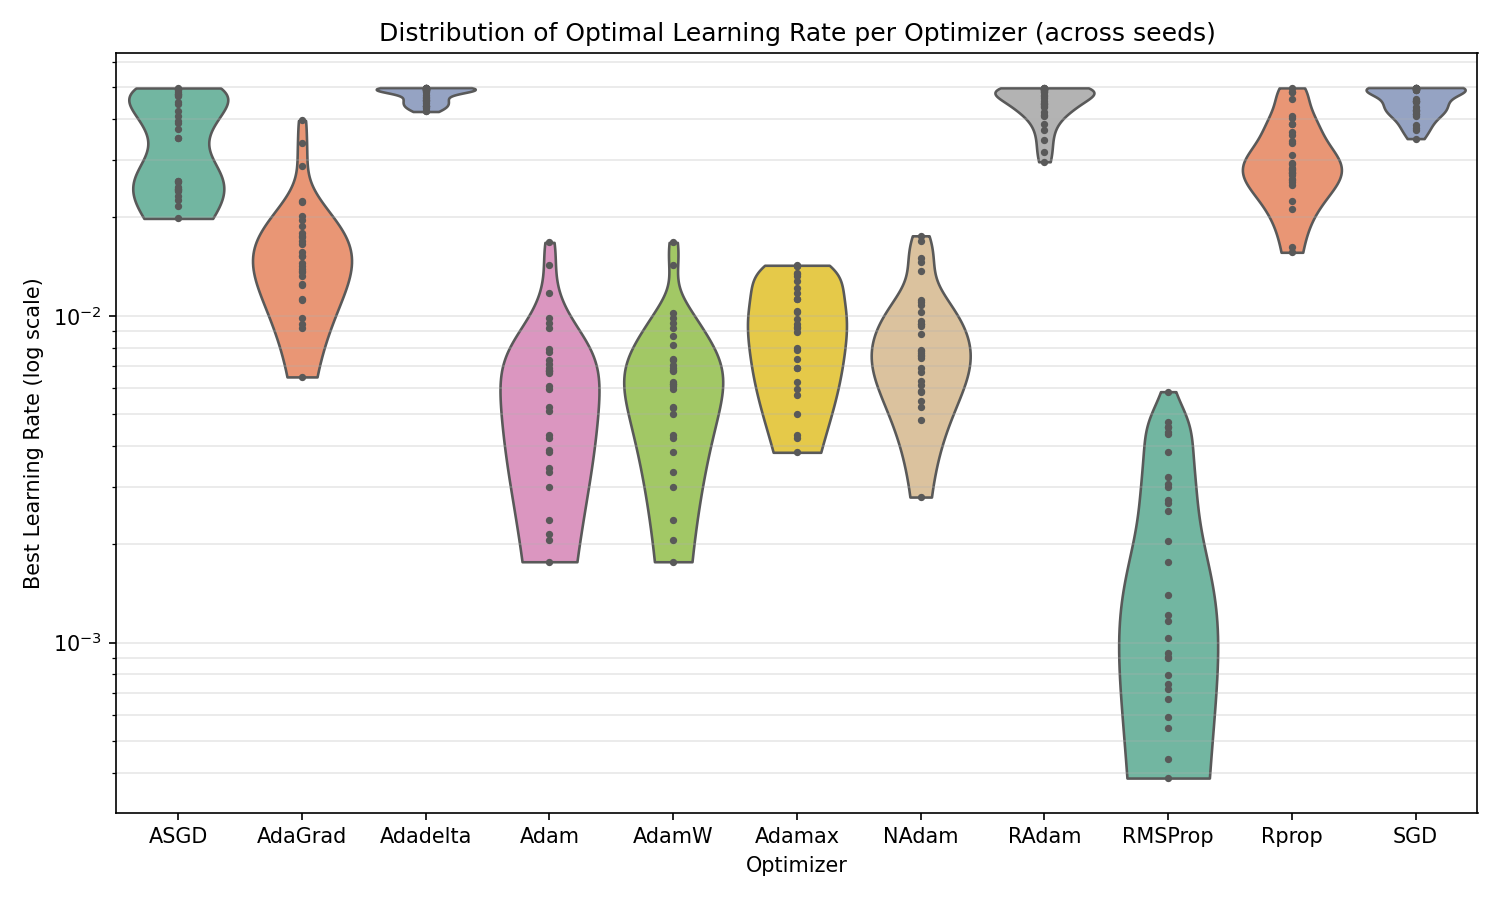
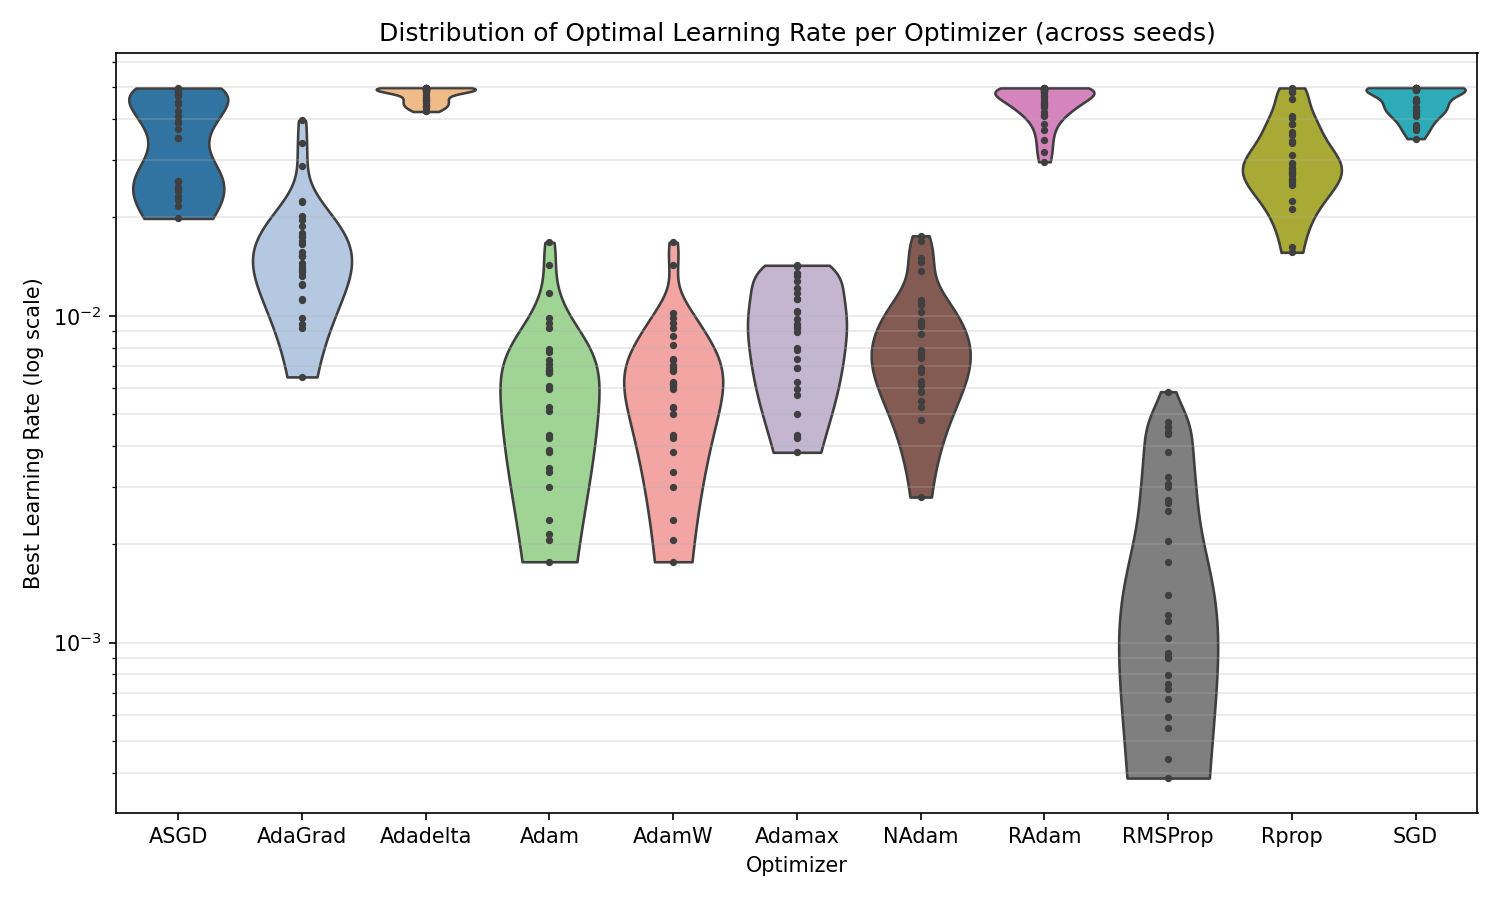
new and improved images+plot funcs

diff --git a/analysis.py b/analysis.py
@@ -293,11 +293,20 @@ def compute_kendalls_w(acc_matrix):
 #              VISUALISATIONS
 # ============================================================
 
+def get_optimizer_color_map(optimizers):
+    """Return a consistent optimizer -> color mapping."""
+    unique_opts = sorted(pd.unique(list(optimizers)))
+    cmap = plt.colormaps.get_cmap("tab20")
+    colors = [cmap(i / max(len(unique_opts), 1)) for i in range(len(unique_opts))]
+    return {opt: color for opt, color in zip(unique_opts, colors)}
+
 def plot_accuracy_boxplot(acc_matrix, save_path="results/accuracy_boxplot.png"):
     """Box plot of best accuracy per optimizer across seeds."""
     fig, ax = plt.subplots(figsize=(10, 6))
     melted = acc_matrix.reset_index().melt(id_vars="seed", var_name="Optimizer", value_name="Best Accuracy")
-    sns.boxplot(data=melted, x="Optimizer", y="Best Accuracy", ax=ax, palette="Set2")
+    order = list(acc_matrix.columns)
+    color_map = get_optimizer_color_map(order)
+    sns.boxplot(data=melted, x="Optimizer", y="Best Accuracy", ax=ax, order=order, palette=color_map)
     sns.stripplot(data=melted, x="Optimizer", y="Best Accuracy", ax=ax, color="black", size=4, alpha=0.6)
     ax.set_title("Best Accuracy per Optimizer (across seeds)")
     ax.set_ylabel("Best Cross-Validated Accuracy")
@@ -311,7 +320,9 @@ def plot_mean_rank_bar(acc_matrix, save_path="results/mean_rank.png"):
     """Bar chart of mean ranks (Friedman-style)."""
     mean_ranks = compute_mean_ranks(acc_matrix)
     fig, ax = plt.subplots(figsize=(8, 5))
-    mean_ranks.plot.barh(ax=ax, color="steelblue")
+    color_map = get_optimizer_color_map(mean_ranks.index)
+    bar_colors = [color_map[opt] for opt in mean_ranks.index]
+    mean_ranks.plot.barh(ax=ax, color=bar_colors)
     ax.set_xlabel("Mean Rank (lower = better)")
     ax.set_title("Mean Rank of Optimizers (Friedman)")
     ax.invert_yaxis()
@@ -324,12 +335,14 @@ def plot_mean_rank_bar(acc_matrix, save_path="results/mean_rank.png"):
 def plot_bo_convergence(trials_df, save_path="results/bo_convergence.png"):
     """Plot best-accuracy-so-far over BO iterations, averaged across seeds."""
     fig, ax = plt.subplots(figsize=(10, 6))
+    color_map = get_optimizer_color_map(trials_df["optimizer"].unique())
 
-    for opt in trials_df["optimizer"].unique():
+    for opt in sorted(trials_df["optimizer"].unique()):
         opt_df = trials_df[trials_df["optimizer"] == opt]
         # Average best_accuracy_so_far across seeds per iteration
         convergence = opt_df.groupby("iteration")["best_accuracy_so_far"].mean()
-        ax.plot(convergence.index, convergence.values, marker="o", markersize=3, label=opt)
+        ax.plot(convergence.index, convergence.values, marker="o", markersize=3,
+                label=opt, color=color_map[opt])
 
     ax.axvline(x=INITIAL_POINTS - 0.5, color="gray", linestyle="--", alpha=0.5, label="BO starts")
     ax.set_xlabel("Trial Iteration")
@@ -348,11 +361,11 @@ def plot_lr_vs_accuracy(trials_df, save_path="results/lr_vs_accuracy.png"):
     from statsmodels.nonparametric.smoothers_lowess import lowess
 
     fig, ax = plt.subplots(figsize=(12, 7))
-    palette = plt.cm.get_cmap("tab20", len(trials_df["optimizer"].unique()))
+    color_map = get_optimizer_color_map(trials_df["optimizer"].unique())
 
-    for i, opt in enumerate(sorted(trials_df["optimizer"].unique())):
+    for opt in sorted(trials_df["optimizer"].unique()):
         subset = trials_df[trials_df["optimizer"] == opt].copy()
-        color = palette(i)
+        color = color_map[opt]
 
         # Use log-transformed LR for scatter + LOWESS so spacing is even
         log_lr = np.log10(subset["learning_rate"].values)
@@ -402,11 +415,11 @@ def plot_lr_vs_loss(trials_df, save_path="results/lr_vs_loss.png"):
     df = df[df["final_loss"] > 0]  # needed for log scale
 
     fig, ax = plt.subplots(figsize=(12, 7))
-    palette = plt.cm.get_cmap("tab20", len(df["optimizer"].unique()))
+    color_map = get_optimizer_color_map(df["optimizer"].unique())
 
-    for i, opt in enumerate(sorted(df["optimizer"].unique())):
+    for opt in sorted(df["optimizer"].unique()):
         subset = df[df["optimizer"] == opt]
-        color = palette(i)
+        color = color_map[opt]
         log_lr = np.log10(subset["learning_rate"].values)
 
         ax.scatter(subset["learning_rate"], subset["final_loss"],
@@ -446,13 +459,14 @@ def plot_training_curves(trials_df, save_path="results/training_curves.png"):
         return
 
     fig, ax = plt.subplots(figsize=(10, 6))
+    color_map = get_optimizer_color_map(trials_df["optimizer"].unique())
 
-    for opt in trials_df["optimizer"].unique():
+    for opt in sorted(trials_df["optimizer"].unique()):
         opt_df = trials_df[trials_df["optimizer"] == opt]
         # Pick the best trial per seed, then average the loss curves
         best_per_seed = opt_df.loc[opt_df.groupby("seed")["mean_accuracy"].idxmax()]
         avg_curve = best_per_seed[epoch_loss_cols].mean(axis=0).values
-        ax.plot(range(1, len(avg_curve) + 1), avg_curve, label=opt)
+        ax.plot(range(1, len(avg_curve) + 1), avg_curve, label=opt, color=color_map[opt])
 
     ax.set_xlabel("Epoch")
     ax.set_ylabel("Average Training Loss")
@@ -472,10 +486,11 @@ def plot_ei_over_iterations(trials_df, save_path="results/ei_over_iterations.png
         return
 
     fig, ax = plt.subplots(figsize=(10, 6))
+    color_map = get_optimizer_color_map(bo_trials["optimizer"].unique())
     for opt in sorted(bo_trials["optimizer"].unique()):
         opt_df = bo_trials[bo_trials["optimizer"] == opt]
         ei_avg = opt_df.groupby("iteration")["ei_value"].mean()
-        ax.plot(ei_avg.index, ei_avg.values, marker="o", markersize=3, label=opt)
+        ax.plot(ei_avg.index, ei_avg.values, marker="o", markersize=3, label=opt, color=color_map[opt])
 
     ax.set_xlabel("BO Iteration")
     ax.set_ylabel("Expected Improvement (mean across seeds)")
@@ -500,7 +515,8 @@ def plot_early_stopping_frequency(trials_df, save_path="results/early_stopping_f
 
     fig, ax = plt.subplots(figsize=(10, 6))
     opt_es = df.groupby("optimizer")["es_rate"].mean().sort_values(ascending=False)
-    colors = sns.color_palette("Set2", len(opt_es))
+    color_map = get_optimizer_color_map(opt_es.index)
+    colors = [color_map[opt] for opt in opt_es.index]
     opt_es.plot.bar(ax=ax, color=colors)
     ax.set_ylabel("Early Stopping Rate (fraction of folds)")
     ax.set_xlabel("Optimizer")
@@ -525,7 +541,8 @@ def plot_fold_variance_boxplot(trials_df, save_path="results/fold_variance_boxpl
     fig, ax = plt.subplots(figsize=(10, 6))
     melted = trials_df[["optimizer", "accuracy_std"]].copy()
     order = melted.groupby("optimizer")["accuracy_std"].median().sort_values().index.tolist()
-    sns.boxplot(data=melted, x="optimizer", y="accuracy_std", ax=ax, palette="Set2", order=order)
+    color_map = get_optimizer_color_map(order)
+    sns.boxplot(data=melted, x="optimizer", y="accuracy_std", ax=ax, palette=color_map, order=order)
     ax.set_xlabel("Optimizer")
     ax.set_ylabel("Accuracy Std (across folds)")
     ax.set_title("Cross-Fold Variance per Optimizer (lower = more stable)")
@@ -540,8 +557,9 @@ def plot_best_lr_distribution(summary_df, save_path="results/best_lr_distributio
     """Violin plot of the best learning rate found per optimizer across seeds."""
     fig, ax = plt.subplots(figsize=(10, 6))
     order = sorted(summary_df["optimizer"].unique())
+    color_map = get_optimizer_color_map(order)
     sns.violinplot(data=summary_df, x="optimizer", y="best_learning_rate", ax=ax,
-                   palette="Set2", order=order, inner="point", cut=0)
+                   palette=color_map, order=order, inner="point", cut=0)
     ax.set_yscale("log")
     ax.set_xlabel("Optimizer")
     ax.set_ylabel("Best Learning Rate (log scale)")
@@ -565,11 +583,13 @@ def plot_val_accuracy_curves(trials_df, save_path="results/val_accuracy_curves.p
         return
 
     fig, ax = plt.subplots(figsize=(10, 6))
+    color_map = get_optimizer_color_map(trials_df["optimizer"].unique())
     for opt in sorted(trials_df["optimizer"].unique()):
         opt_df = trials_df[trials_df["optimizer"] == opt]
         best_per_seed = opt_df.loc[opt_df.groupby("seed")["mean_accuracy"].idxmax()]
         avg_curve = best_per_seed[epoch_val_cols].mean(axis=0).values
-        ax.plot(range(1, len(avg_curve) + 1), avg_curve, marker="o", markersize=3, label=opt)
+        ax.plot(range(1, len(avg_curve) + 1), avg_curve, marker="o", markersize=3,
+                label=opt, color=color_map[opt])
 
     ax.set_xlabel("Epoch")
     ax.set_ylabel("Average Validation Accuracy")
@@ -693,7 +713,7 @@ if __name__ == "__main__":
     friedman_df = pd.DataFrame([{
         "Test": "Friedman χ²",
         "Statistic": stat,
-        "p-value": p,
+        "p-value": f"{p:.2e}",
         "Significant": "YES" if p < SIGNIFICANCE_LEVEL else "NO",
         "α": SIGNIFICANCE_LEVEL,
     }])
